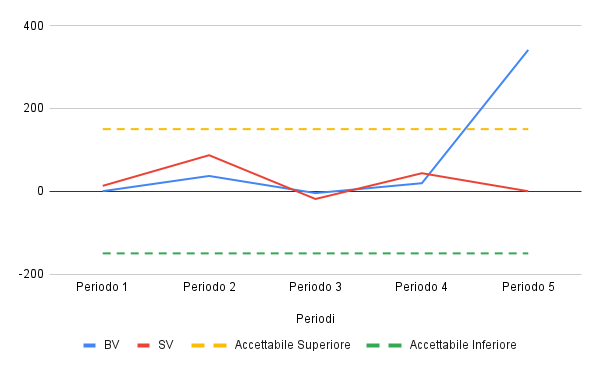
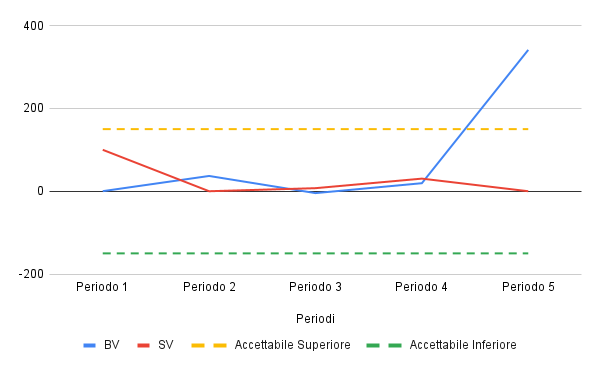
correzzione grafico e relativa descrizione

Changed region(s): [[0.33, 0.4447, 0.87, 0.5337], [0.18, 0.4151, 0.33, 0.504], [0.3, 0.4151, 0.39, 0.4447]]

diff --git a/RTB/Sottosezioni/Piano_di_qualifica/Qualità_Fornitura.tex b/RTB/Sottosezioni/Piano_di_qualifica/Qualità_Fornitura.tex
@@ -95,7 +95,7 @@ Si nota come la Budget Variance sia sempre diversa da zero, suggerendo che ad og
 \vspace{0.2cm}
 
 Nell'ultimo periodo si nota un grande aumento della Budget Variance, questo è dovuto al fatto che le \textit{attività}\textsubscript{\textit{G}} rimanenti sono state completate con un costo inferiore a quello preventivato. 
-Risulta anche altalenante la Schedule Variance, indicando che in ogni periodo ci sono stati dei ritardi o degli anticipi rispetto alla pianificazione.
+Risulta altalenante, in alcuni periodi, la Schedule Variance, indicando in alcuni periodi ci sono stati dei ritardi o degli anticipi rispetto alla pianificazione.
 
 \vspace{0.2cm}
 
